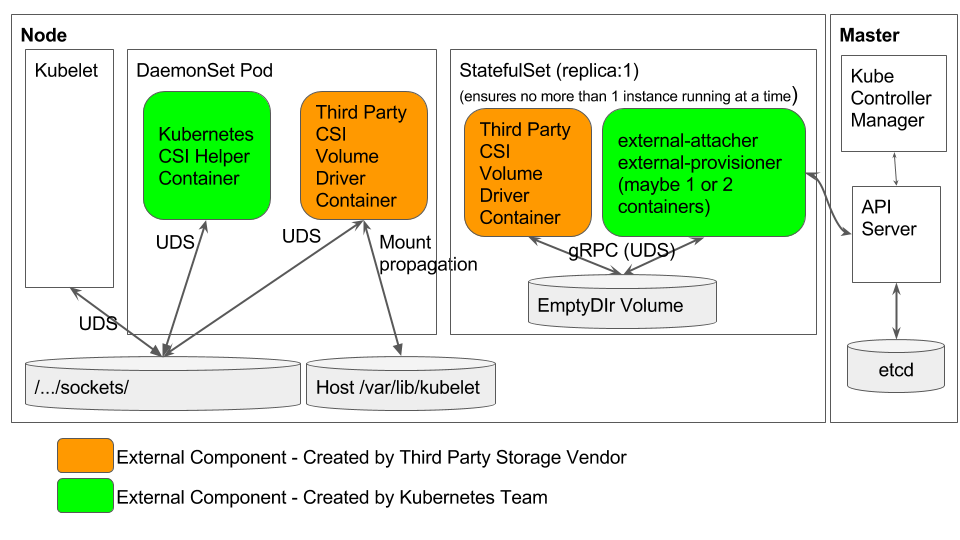
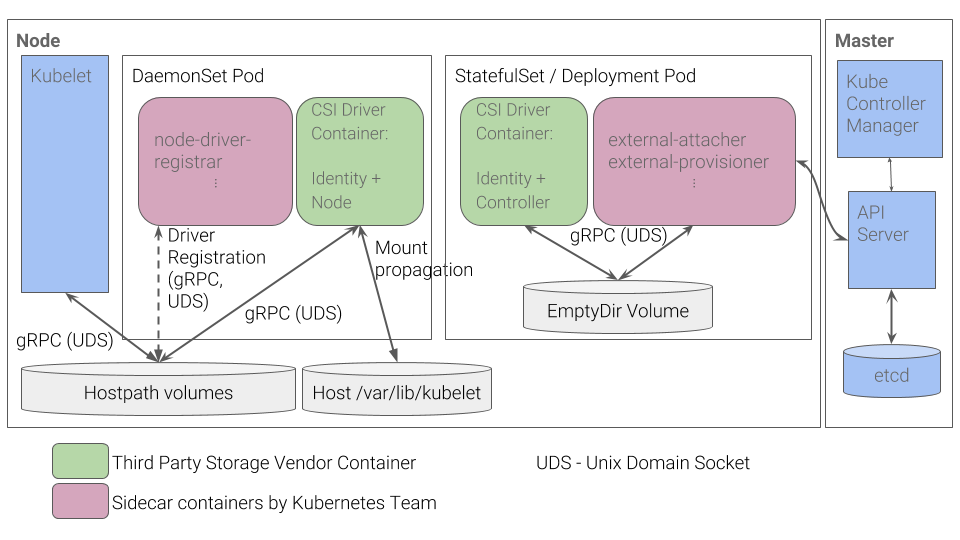
Updated CSI doc with latest deployment method information

diff --git a/storage/container-storage-interface.md b/storage/container-storage-interface.md
@@ -410,35 +410,39 @@ When the controller decides to detach a CSI volume, it will call the in-tree CSI
 
 ### Recommended Mechanism for Deploying CSI Drivers on Kubernetes
 
-Although, Kubernetes does not dictate the packaging for a CSI volume driver, it offers the following recommendations to simplify deployment of a containerized CSI volume driver on Kubernetes.
+Although Kubernetes does not dictate the packaging for a CSI volume driver, it offers the following recommendations to simplify deployment of a containerized CSI volume driver on Kubernetes.
 
 ![Recommended CSI Deployment Diagram](container-storage-interface_diagram1.png?raw=true "Recommended CSI Deployment Diagram")
 
 To deploy a containerized third-party CSI volume driver, it is recommended that storage vendors:
 
   * Create a “CSI volume driver” container that implements the volume plugin behavior and exposes a gRPC interface via a unix domain socket, as defined in the CSI spec (including Controller, Node, and Identity services).
-  * Bundle the “CSI volume driver” container with helper containers (external-attacher, external-provisioner, Kubernetes CSI Helper) that the Kubernetes team will provide (these helper containers will assist the “CSI volume driver” container in interacting with the Kubernetes system). More specifically, create the following Kubernetes objects:
-    * A `StatefulSet` (to facilitate communication with the Kubernetes controllers) that has:
-      * Replica size 1
-        * Guarantees that no more than 1 instance of the pod will be running at once (so we don’t have to worry about multiple instances of the `external-provisioner` or `external-attacher` in the cluster).
+  * Bundle the “CSI volume driver” container with helper containers (external-attacher, external-provisioner, node-driver-registrar, cluster-driver-registrar, external-resizer, external-snapshotter, livenessprobe) that the Kubernetes team will provide (these helper containers will assist the “CSI volume driver” container in interacting with the Kubernetes system). More specifically, create the following Kubernetes objects:
+    * To facilitate communication with the Kubernetes controllers, a `StatefulSet` or a `Deployment` (depending on the user's need; see [Cluster-Level Deployment](#cluster-level-deployment)) that has:
       * The following containers
         * The “CSI volume driver” container created by the storage vendor.
-        * The `external-attacher` container provided by the Kubernetes team.
-        * The `external-provisioner` container provided by the Kubernetes team.
+        * Containers provided by the Kubernetes team (all of which are optional):
+          * `cluster-driver-registrar` (refer to the README in `cluster-driver-registrar` repository for when the container is required)
+          * `external-provisioner` (required for provision/delete operations)
+          * `external-attacher` (required for attach/detach operations. If you wish to skip the attach step, CSISkipAttach feature must be enabled in Kubernetes in addition to omitting this container)
+          * `external-resizer` (required for resize operations)
+          * `external-snapshotter` (required for volume-level snapshot operations)
+          * `livenessprobe`
       * The following volumes:
         * `emptyDir` volume
-          * Mounted inside all containers at `/var/lib/csi/sockets/pluginproxy/`
-          * The “CSI volume driver” container should create its Unix Domain Socket in this directory to enable communication with the Kubernetes helper container(s) (`external-provisioner`, `external-attacher`).
+          * Mounted by all containers, including the “CSI volume driver”.
+          * The “CSI volume driver” container should create its Unix Domain Socket in this directory to enable communication with the Kubernetes helper container(s).
     * A `DaemonSet` (to facilitate communication with every instance of kubelet) that has:
       * The following containers
         * The “CSI volume driver” container created by the storage vendor.
-        * The “Kubernetes CSI Helper” container provided by the Kubernetes team
-          * Responsible for registering the unix domain socket with kubelet and initializing NodeId.
+        * Containers provided by the Kubernetes team:
+          * `node-driver-registrar` - Responsible for registering the unix domain socket with kubelet.
+          * `livenessprobe` (optional)
       * The following volumes:
         * `hostpath` volume
-          * Expose `/var/lib/kubelet/device-plugins/kubelet.sock` from the host.
-          * Mount only in “Kubernetes CSI Helper” container at `/var/lib/csi/sockets/kubelet.sock`
-          * The Kubernetes to CSI proxy container will use this unix domain socket to register the CSI driver’s unix domain socket with kubelet.
+          * Expose `/var/lib/kubelet/plugins_registry` from the host.
+          * Mount only in `node-driver-registrar` container at `/registration`
+          * `node-driver-registrar` will use this unix domain socket to register the CSI driver’s unix domain socket with kubelet.
         * `hostpath` volume
           * Expose `/var/lib/kubelet/` from the host.
           * Mount only in “CSI volume driver” container at `/var/lib/kubelet/`
@@ -450,6 +454,17 @@ To deploy a containerized third-party CSI volume driver, it is recommended that 
   * Have cluster admins deploy the above `StatefulSet` and `DaemonSet` to add support for the storage system in their Kubernetes cluster.
 
 Alternatively, deployment could be simplified by having all components (including external-provisioner and external-attacher) in the same pod (DaemonSet). Doing so, however, would consume more resources, and require a leader election protocol (likely https://git.k8s.io/contrib/election) in the `external-provisioner` and `external-attacher` components.
+
+Containers provided by Kubernetes are maintained in [GitHub kubernetes-csi organization](https://github.com/kubernetes-csi).
+
+#### Cluster-Level Deployment
+Containers in the cluster-level deployment may be deployed in one of the following configurations:
+
+1. StatefulSet with single replica. Good for clusters with a single dedicated node to run the cluster-level pod. A StatefulSet guarantees that no more than 1 instance of the pod will be running at once. One downside is that if the node becomes unresponsive, the replica will never be deleted and recreated.
+1. Deployment with multiple replicas and leader election enabled (if supported by the container). Good for admins who prefer faster recovery time in case the main replica fails, at a cost of higher resource usage (especially memory).
+1. Deployment with a single replica and leader election enabled (if supported by the container). A compromise between the above two options. If the replica is detected to be failed, a new replica can be scheduled almost immediately.
+
+Note that certain cluster-level containers, such as `external-provisioner`, `external-attacher`, `external-resizer`, and `external-snapshotter`, may require credentials to the storage backend, and as such, admins may choose to run them on dedicated "infrastructure" nodes (such as master nodes) that don't run user pods.
 
 #### Topology Representation in Node Objects
 Topology information will be represented as labels.
